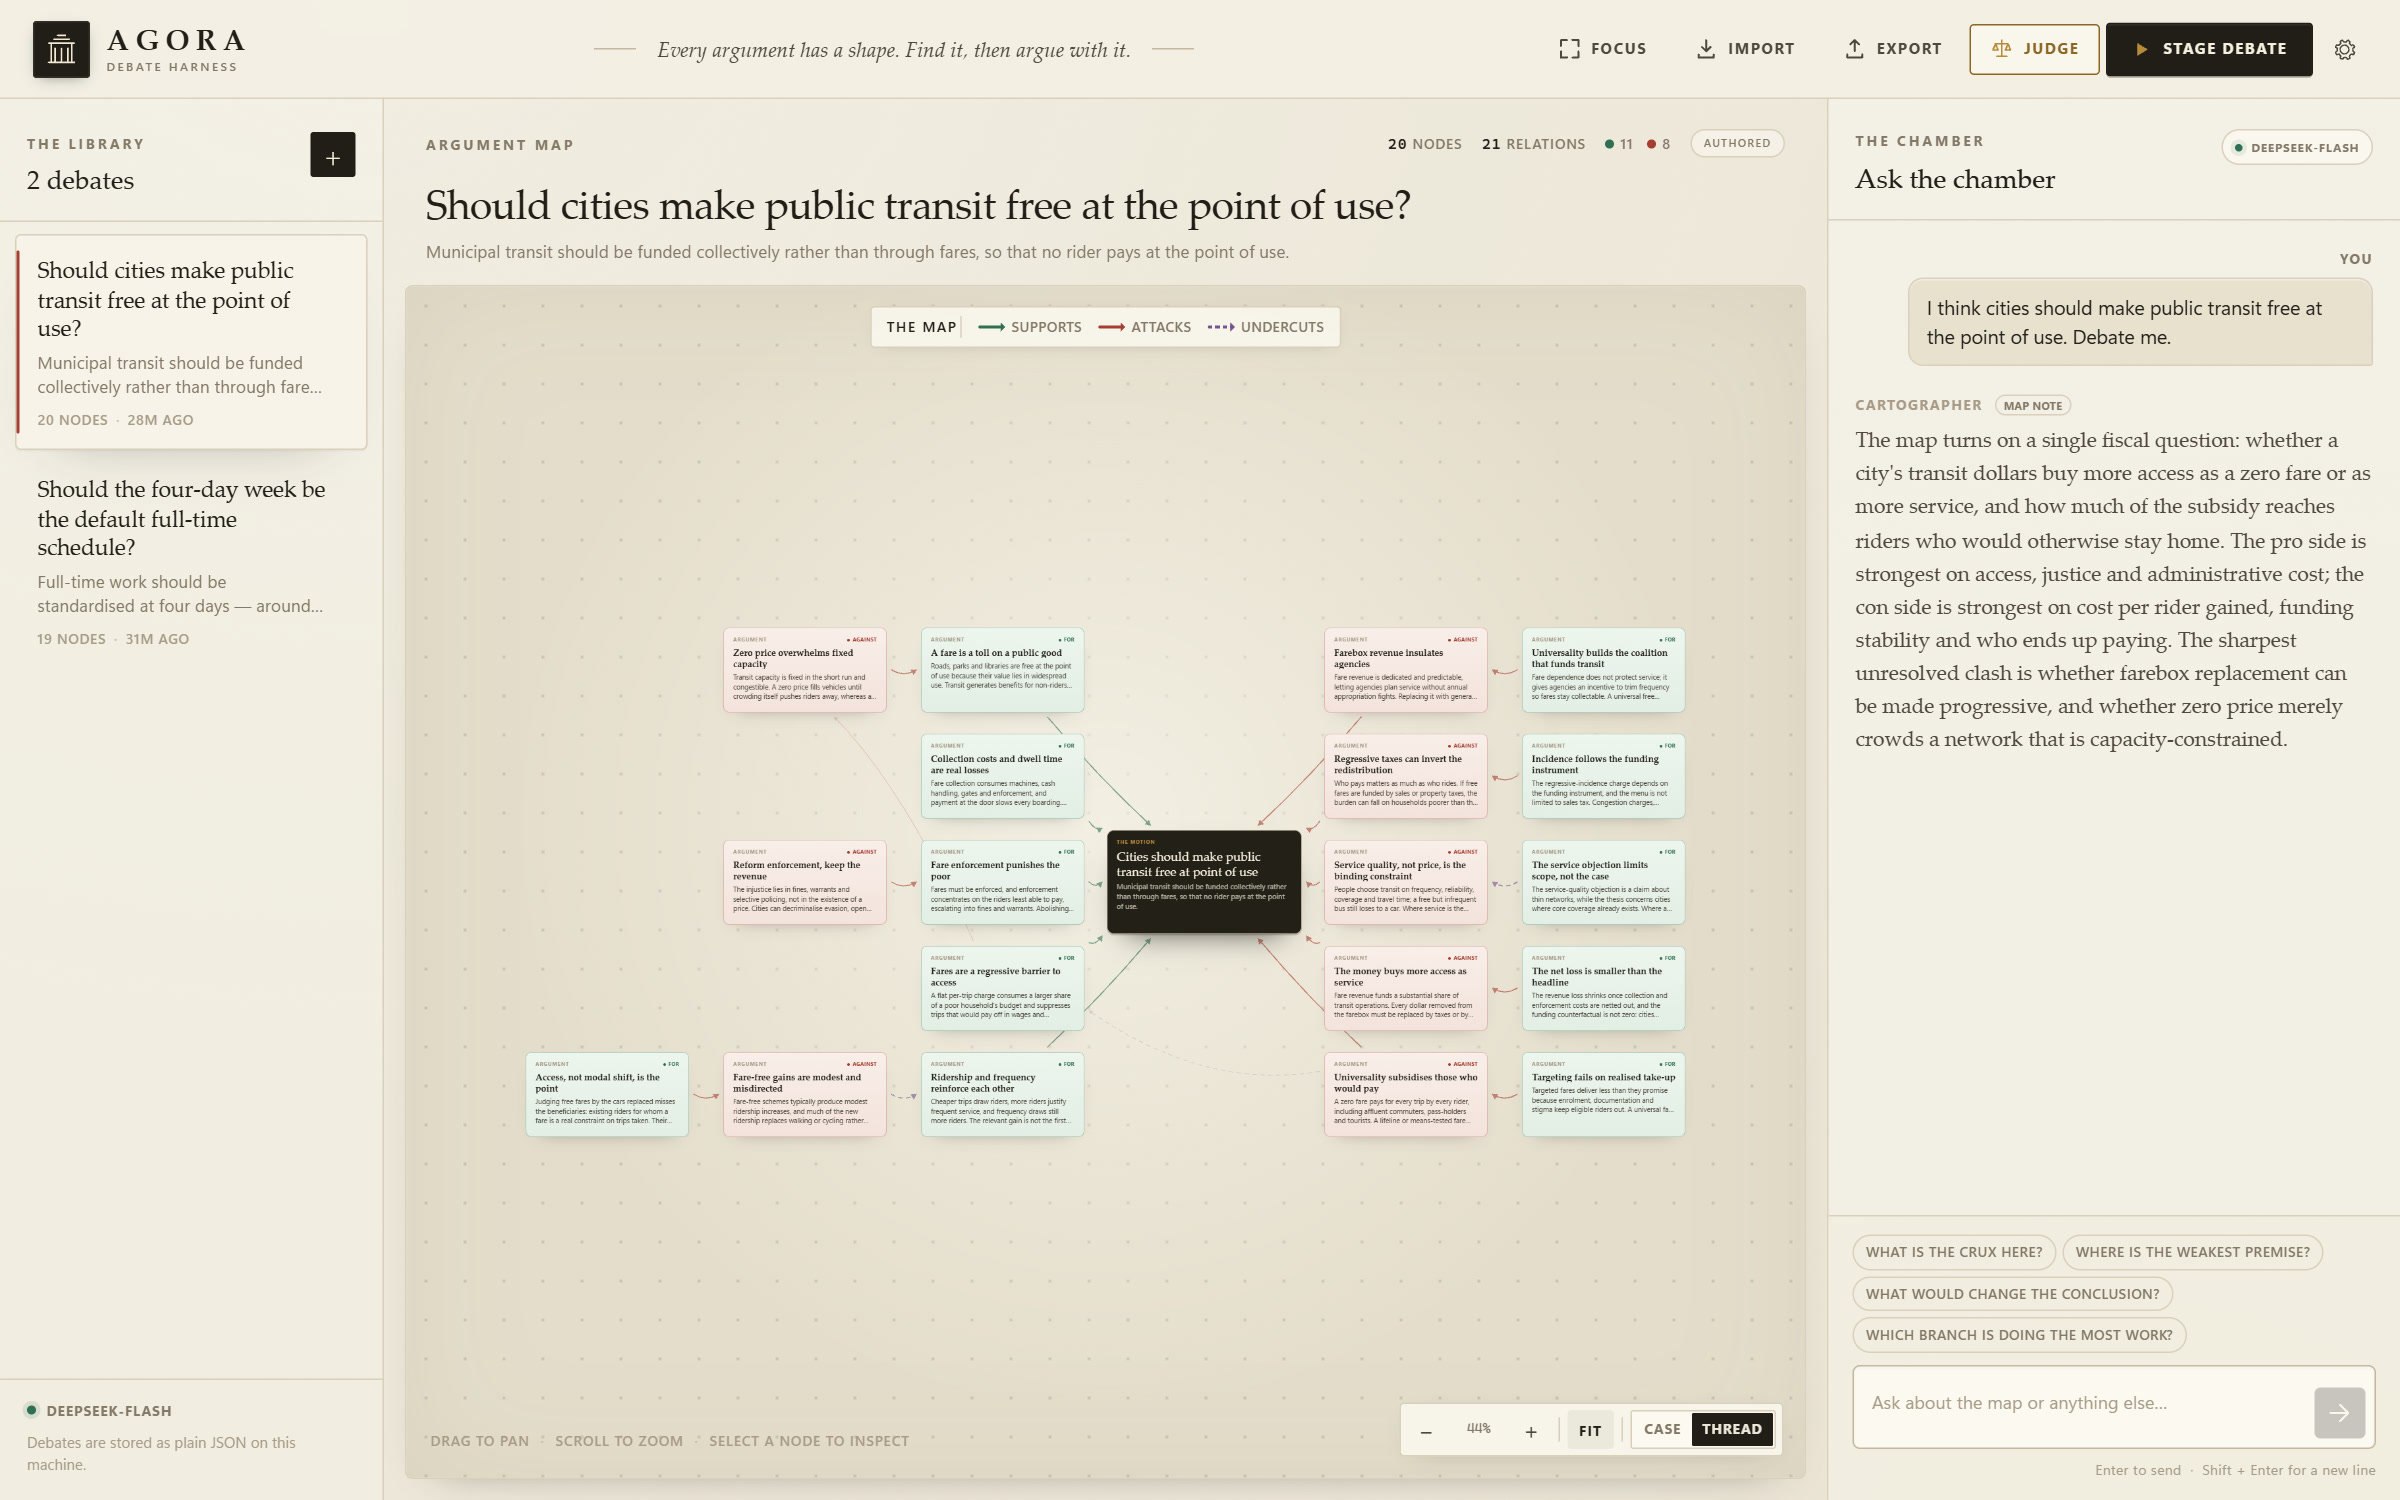
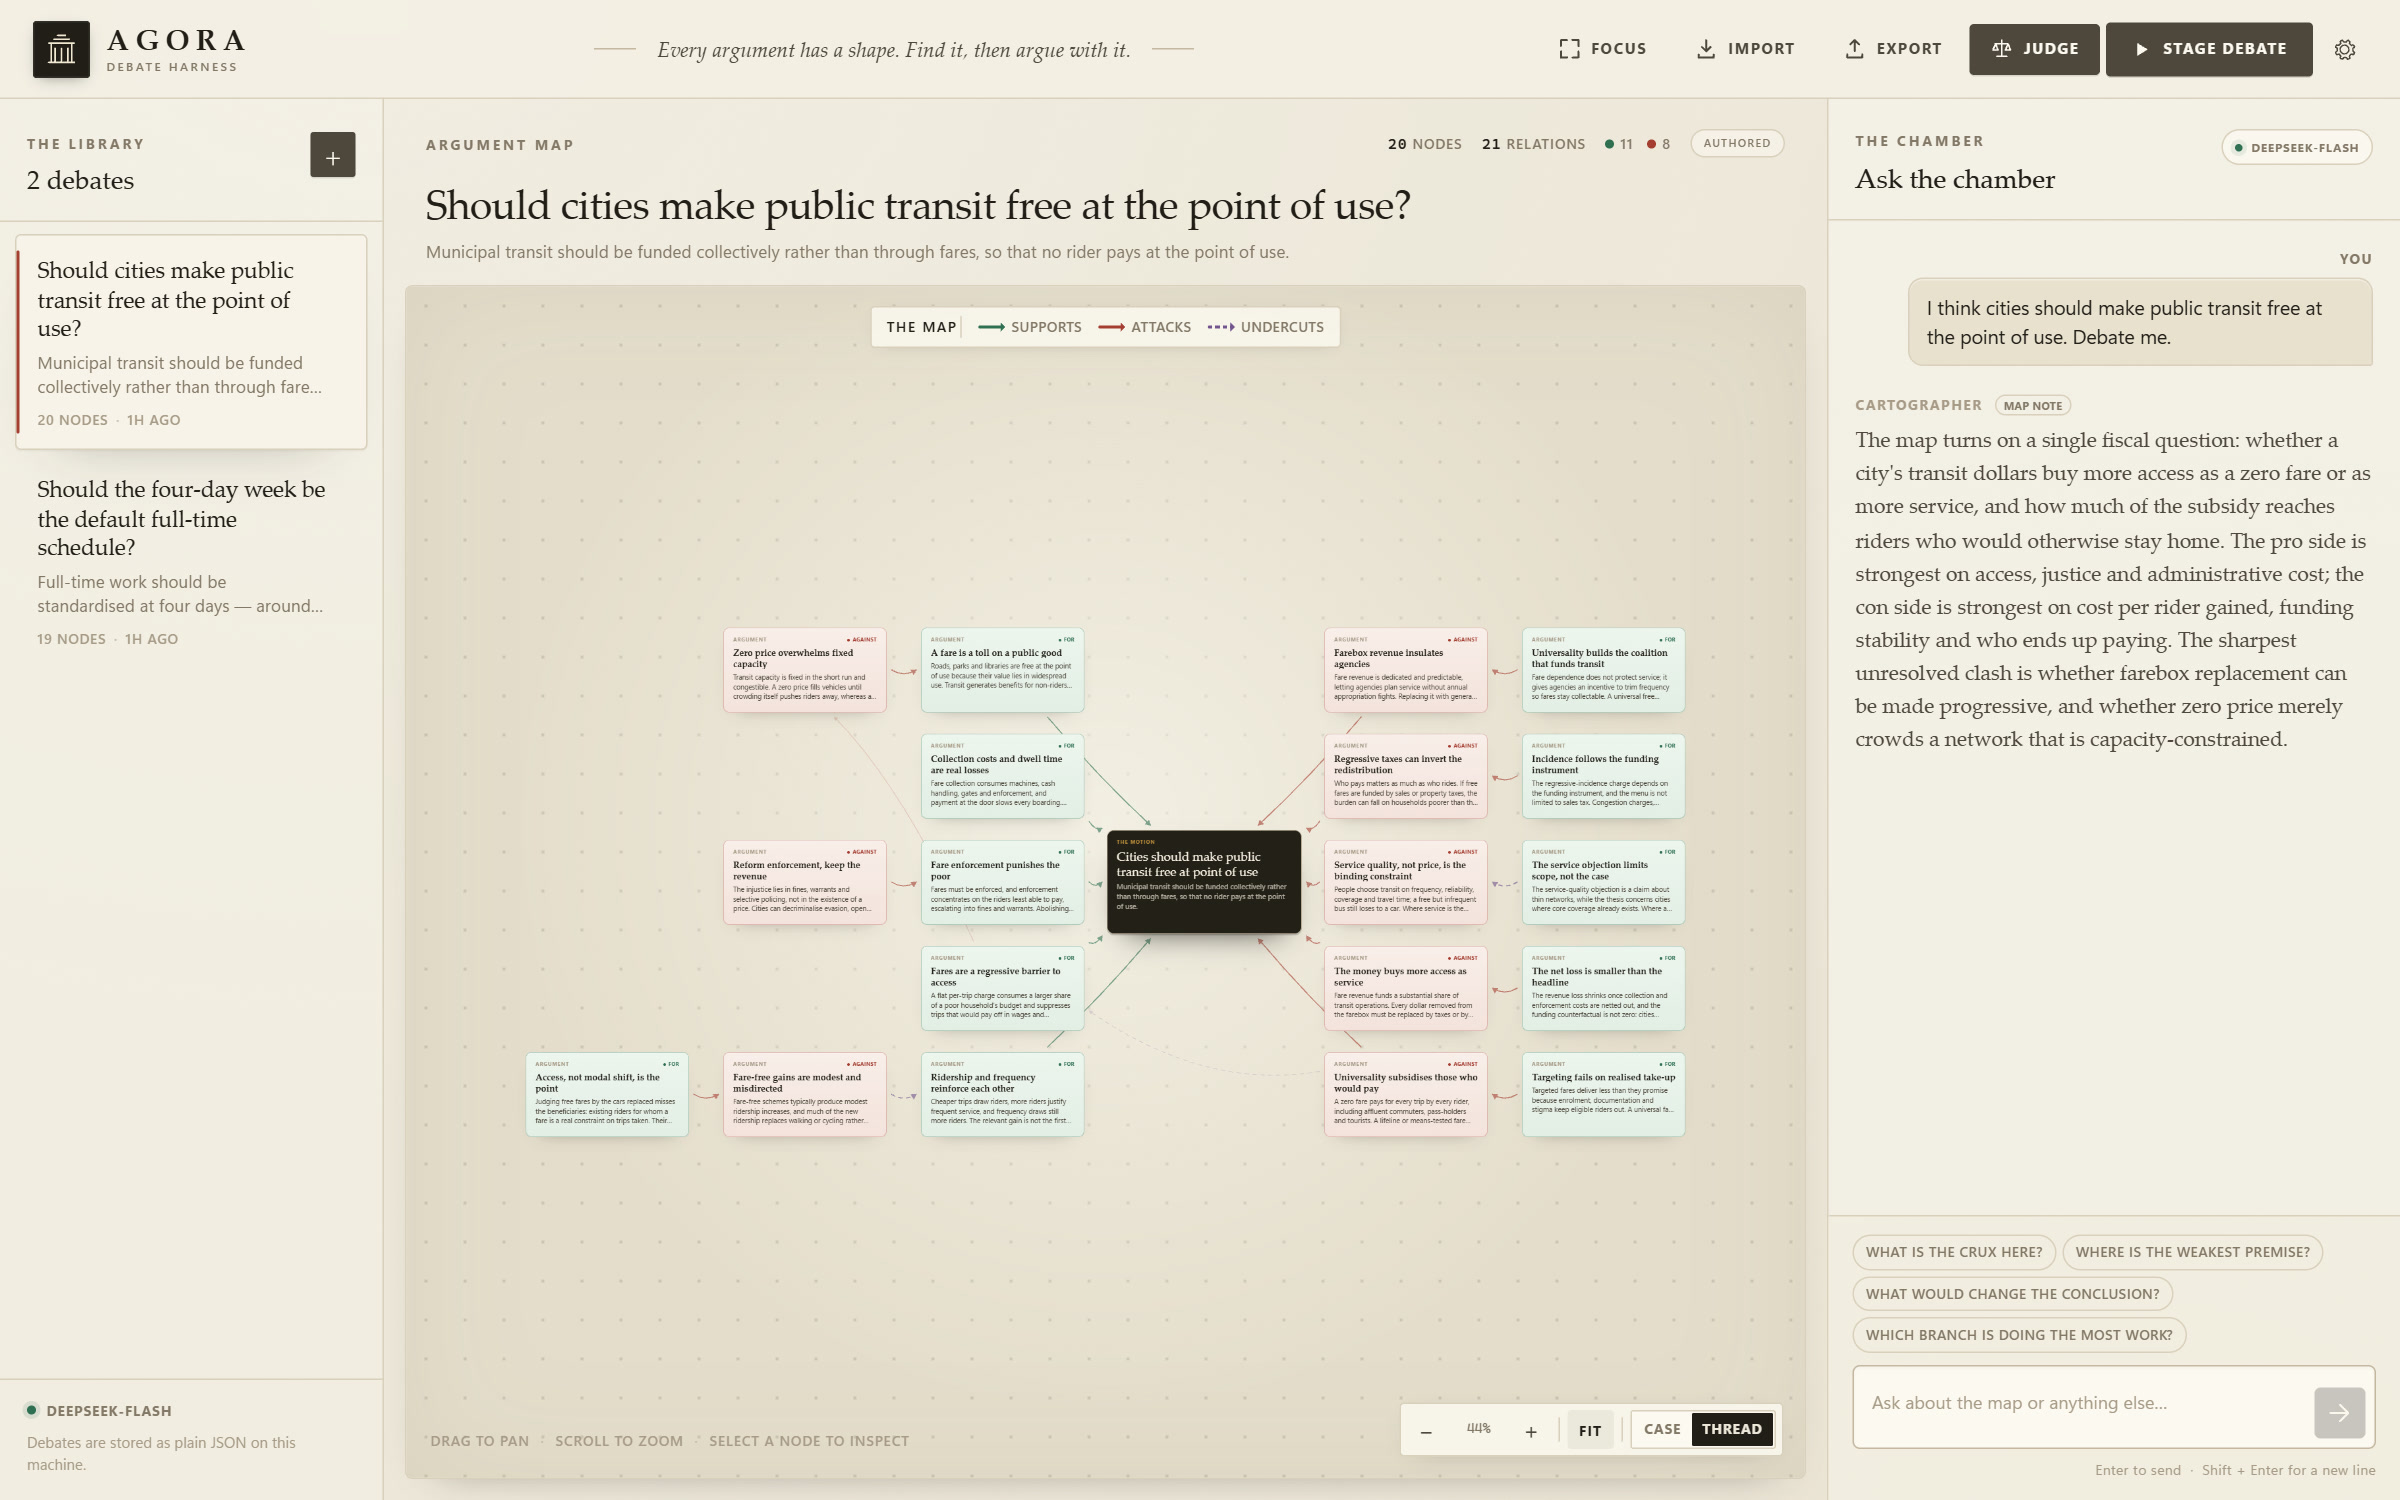
style: soften light action controls

Changed region(s): [[0.8125, 0.0, 0.9688, 0.0613], [0.125, 0.092, 0.1562, 0.1227]]

diff --git a/src/ui/light.css b/src/ui/light.css
@@ -2,6 +2,12 @@
 /* Editorial paper — a daylight stage                                  */
 /* ------------------------------------------------------------------ */
 
+html[data-theme="light"] {
+  --action-bg: var(--ink-soft);
+  --action-bg-hover: #3f382f;
+  --action-ink: var(--surface-strong);
+}
+
 html[data-theme="light"] .stage-panel {
   color: var(--ink);
   background:
@@ -38,13 +44,37 @@ html[data-theme="light"] .stage-icon-btn.is-on {
   background: var(--gold-soft);
 }
 html[data-theme="light"] .stage-play-btn {
-  background: var(--ink);
-  border-color: var(--ink);
-  color: var(--surface-strong);
+  background: var(--action-bg);
+  border-color: var(--action-bg);
+  color: var(--action-ink);
 }
+html[data-theme="light"] .btn--stage,
+html[data-theme="light"] .btn--judge,
+html[data-theme="light"] .library-new {
+  background: var(--action-bg);
+  border-color: var(--action-bg);
+  color: var(--action-ink);
+  box-shadow: 0 1px 0 rgba(33, 29, 24, 0.12);
+}
+html[data-theme="light"] .btn--stage svg,
+html[data-theme="light"] .btn--judge svg {
+  color: currentColor;
+}
+html[data-theme="light"] .btn--stage:hover,
+html[data-theme="light"] .btn--judge:hover:not(:disabled),
+html[data-theme="light"] .library-new:hover,
 html[data-theme="light"] .stage-play-btn:hover {
-  background: var(--con-deep);
-  border-color: var(--con-deep);
+  background: var(--action-bg-hover);
+  border-color: var(--action-bg-hover);
+  color: var(--action-ink);
+}
+html[data-theme="light"] .btn--judge.is-active {
+  background: var(--gold-soft);
+  border-color: var(--gold);
+  color: var(--gold-deep);
+}
+html[data-theme="light"] .btn--judge.is-active svg {
+  color: var(--gold-deep);
 }
 html[data-theme="light"] .stage-speed select {
   border-color: rgba(33, 29, 24, 0.2);
